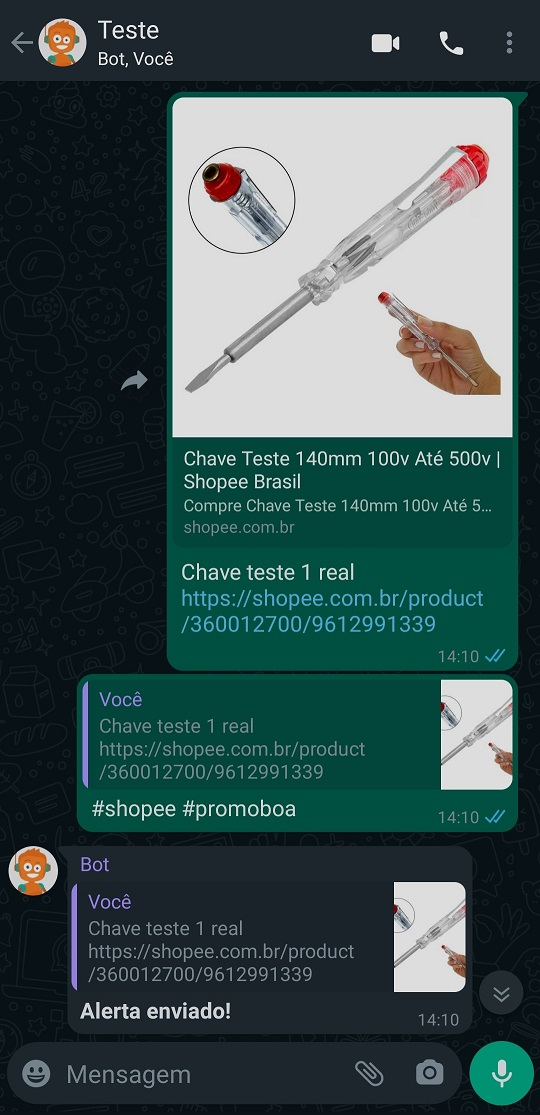
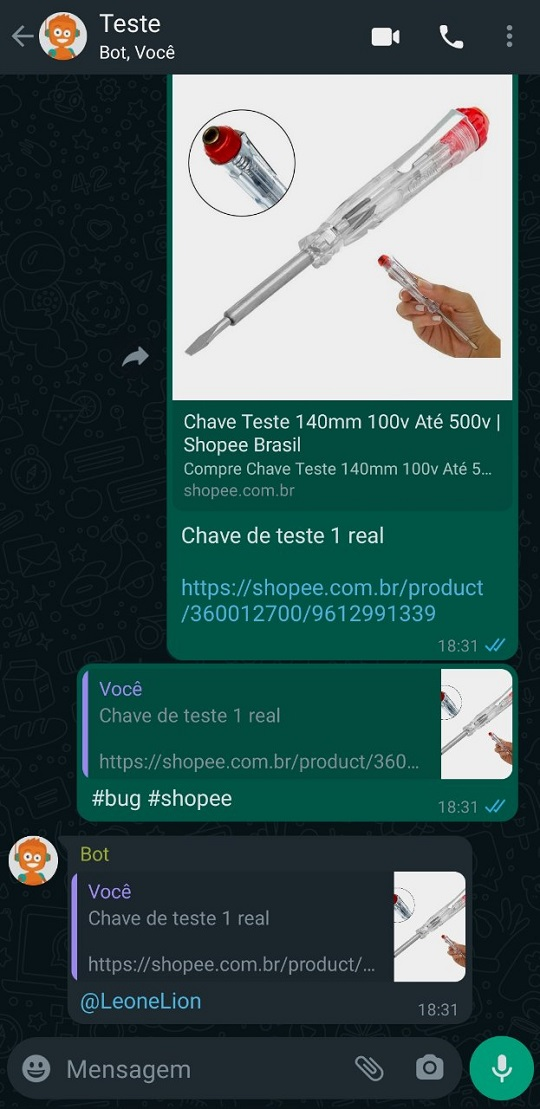
Passa a deletar o alerta após a deleção da menssagem que o invocou

diff --git a/components/AlertUsers.js b/components/AlertUsers.js
@@ -1,9 +1,14 @@
 const User = require('../models/User')
 const Alert = require('../models/Alert')
 const AlertUser = require('../models/AlertUser')
+const Alerted = require('../models/Alerted')
 
 async function AlertUsers(found, client) {
     await User.sync()
+
+    console.log('_____________________________________________________________________________________________________')
+    console.log('Texto da mensagem: ', found.message.text)
+    console.log('Alertas encontrados: ', found.alerts)
 
     let alertsId, alerts, activeUsers = [], text = ''
     const message = found.message
@@ -35,17 +40,36 @@ async function AlertUsers(found, client) {
         alerts.map(alert => alert.AlertUsers.map(alert => activeUsers.push(alert.UserId)))
     }
 
+    // Exclui os usuários repetidos
+    activeUsers = [...new Set(activeUsers)]
+
     // Exclui usuários que não estão no grupo
     activeUsers = activeUsers.filter(user => members.includes(user))
 
     // Se não existirem usuários com o(s) alerta(s) ativado(s) interrompe a função
     if (activeUsers.length === 0) return false
 
+    console.log('Membros com o(s) alerta(s) ativo(s): ', activeUsers)
+
     // Monta o texto da mensagem
     activeUsers.map(id => text += '@' + id.split('@')[0] + ' ')
 
     // Envia a resposta para o grupo com as menções
-    await client.sendReplyWithMentions(message.chatId, text, message.id)
+    const messageId = await client.sendReplyWithMentions(message.chatId, text, message.id, false, activeUsers)
+
+    console.log('Chat ID: ', message.chatId)
+    console.log('Texto enviado: ', text)
+    console.log('Id da mensagem: ', messageId)
+    console.log('Id da mensagem respondida: ', message.id)
+
+    // Se tiver sido enviada com sucesso
+    if (messageId && messageId.startsWith('true_')) {
+        // Salva o ‘id’ da mensagem no banco de dados
+        await Alerted.create({
+            messageId,
+            alertedMessageId: message.id
+        })
+    }
 }
 
 module.exports = AlertUsers

diff --git a/index.js b/index.js
@@ -1,6 +1,7 @@
 const {create} = require('@open-wa/wa-automate')
 const processMessage = require('./components/ProcessMessage')
 const processAddGroup = require('./components/ProcessAddGroup')
+const processDeletion = require('./components/ProcessDeletion')
 const sequelize = require('./databases/db')
 const Alert = require('./models/Alert')
 const ALERTS = require('./resources/alerts.json')
@@ -25,7 +26,7 @@ async function start(client) {
 
     await client.onMessage(message => processMessage(client, message))
     await client.onAddedToGroup(chat => processAddGroup(client, chat))
-    await client.onMessageDeleted(message => console.log(message))// TODO: Deletar a mensagem que marca os usuários
+    await client.onMessageDeleted(message => processDeletion(client, message))
 
     client.onStateChanged(state => {
         console.log('Mudou de estado:', state)

diff --git a/components/ProcessMessage.js b/components/ProcessMessage.js
@@ -10,8 +10,10 @@ async function processMessage(client, message){
     if (message.chat.isGroup) await findAlert(message, client)
     // Evita que o bot responda empresas que eventualmente envie uma mensagem privada para o número
     else if (!message.sender.isEnterprise){
-        // Envia o banco de dados para o administrador
-        if (admin.includes(message.from) && message.text === '/admin') await client.sendFile(message.from, './db.sqlite', 'db.sqlite', 'Banco de dados', message.id)
+        // Interage com o administrador quando ele envia um comando
+        if (admin.includes(message.from) && message.text.startsWith('/')) {
+            // TODO Comandos de administrador
+        }
         // Interage com os usuários comuns
         else await client.reply(message.from, await chatBot(message), message.id, true)
     }

diff --git a/models/Alerted.js b/models/Alerted.js
@@ -1,21 +1,20 @@
 const { DataTypes, Model } = require('sequelize')
 const sequelize = require('../databases/db')
 
-class Alert extends Model {}
+class Alerted extends Model {}
 
-Alert.init({
-    id: {
-        type: DataTypes.INTEGER,
+Alerted.init({
+    messageId: {
+        type: DataTypes.STRING,
         primaryKey: true,
-        autoIncrement: true,
     },
-    name: {
+    alertedMessageId: {
         type: DataTypes.STRING,
         allowNull: false,
-    },
+    }
 }, {
     sequelize,
-    createdAt: false,
+    updatedAt: false
 })
 
-module.exports = Alert
+module.exports = Alerted

diff --git a/components/ProcessDeletion.js b/components/ProcessDeletion.js
@@ -1,0 +1,20 @@
+const Alerted = require('../models/Alerted')
+
+async function processDeletion(client, messageDeleted) {
+    if (messageDeleted.from === undefined) return false
+
+    await Alerted.sync()
+
+    const messages = await Alerted.findAll({
+        where: {
+            alertedMessageId: messageDeleted.id
+        }
+    })
+
+    messages.map(async message => {
+        await client.deleteMessage(messageDeleted.from, message.messageId)
+        await message.destroy()
+    })
+}
+
+module.exports = processDeletion

diff --git a/models/User.js b/models/User.js
@@ -3,15 +3,12 @@ const sequelize = require('../databases/db')
 
 class User extends Model {}
 
-let table = {
+User.init({
     id: {
         type: DataTypes.STRING,
-        allowNull: false,
-        primaryKey: true
-    }
-}
-
-User.init(table, {
+        primaryKey: true,
+    },
+}, {
     sequelize,
     updatedAt: false,
 })

diff --git a/README.md b/README.md
@@ -40,7 +40,7 @@ Primeiramente o bot deve ser adicionado em pelo menos um grupo, defina todos os 
 estarão na mensagem de boas-vindas que o bot enviará após ser adicionado no grupo. Exemplo da mensagem de boas-vindas: 
 
 <p align="center">
-   <img src="https://raw.githubusercontent.com/leonetecbr/bot-alert-group-whatsapp/main/result/Adicionando%20ao%20grupo.jpg" alt="Adicionando o bot ao grupo"/>
+   <img src="https://raw.githubusercontent.com/leonetecbr/bot-alert-group-whatsapp/mentions/result/Adicionando%20ao%20grupo.jpg" alt="Adicionando o bot ao grupo"/>
 </p>
 
 ### Conversando com o bot
@@ -49,7 +49,7 @@ Os usuários que desejarem serem alertados devem entrar em contato com o bot pel
 ativar e desativar os alertas que desejam. Exemplo:
 
 <p align="center">
-   <img src="https://raw.githubusercontent.com/leonetecbr/bot-alert-group-whatsapp/main/result/Conversando%20com%20o%20bot.jpg" alt="Conversando com o bot"/>
+   <img src="https://raw.githubusercontent.com/leonetecbr/bot-alert-group-whatsapp/mentions/result/Conversando%20com%20o%20bot.jpg" alt="Conversando com o bot"/>
 </p>
 
 ### Ativando e desativando alertas
@@ -58,7 +58,7 @@ Para ativar um alerta basta mandá-lo para o bot no privado, para desativar é s
 consultar a lista de alertas disponíveis pode se usar o comando `Meus Alertas`. Exemplo:
 
 <p align="center">
-   <img src="https://raw.githubusercontent.com/leonetecbr/bot-alert-group-whatsapp/main/result/Gerenciando%20os%20alertas.jpg" alt="Gerenciando os alertas"/>
+   <img src="https://raw.githubusercontent.com/leonetecbr/bot-alert-group-whatsapp/mentions/result/Gerenciando%20os%20alertas.jpg" alt="Gerenciando os alertas"/>
 </p>
 
 ### Disparando alertas
@@ -67,13 +67,13 @@ Para disparar o alerta é bem simples, basta usar o alerta em uma mensagem no gr
  uma hash (#), para evitar o disparo acidental, (pode se incluir vários alertas em uma mesma mensagem). Exemplo:
 
 <p align="center">
-   <img src="https://raw.githubusercontent.com/leonetecbr/bot-alert-group-whatsapp/main/result/Lan%C3%A7ando%20alerta%20no%20grupo.jpg" alt="Disparando os alertas"/>
+   <img src="https://raw.githubusercontent.com/leonetecbr/bot-alert-group-whatsapp/mentions/result/Lan%C3%A7ando%20alerta%20no%20grupo.jpg" alt="Disparando os alertas"/>
 </p>
 
-### Recebendo alertas
+### Cancelando alertas
 
-Quando o alerta for disparado, todos que ativaram o alerta receberam a mensagem correspondente no privado. Exemplo:
+Para cancelar um alerta você pode excluir a mensagem o que o disparou, que o bot irá excluir a resposta a ela.
 
 <p align="center">
-   <img src="https://github.com/leonetecbr/bot-alert-group-whatsapp/blob/main/result/Alerta%20sendo%20recebido%20no%20privado.jpg" alt="Recebendo os alertas"/>
+   <img src="https://raw.githubusercontent.com/leonetecbr/bot-alert-group-whatsapp/mentions/result/Cancelando%20envio%20de%20um%20alerta.jpg" alt="Cancelando envio de um alerta"/>
 </p>
